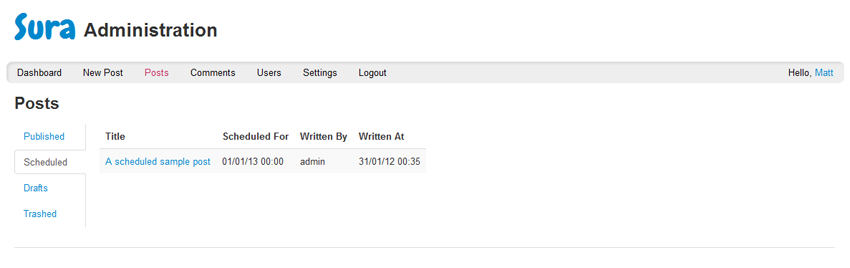
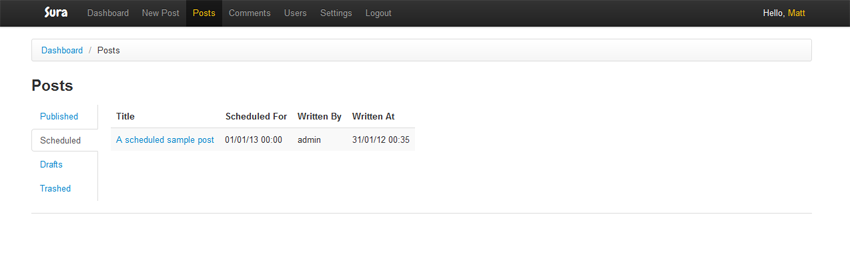
Altered background styling

diff --git a/src/Sura/Content/Stylesheets/bootstrap.min.css b/src/Sura/Content/Stylesheets/bootstrap.min.css
@@ -401,6 +401,9 @@ button.btn.small,input[type="submit"].btn.small{*padding-top:3px;*padding-bottom
 .fade{-webkit-transition:opacity 0.15s linear;-moz-transition:opacity 0.15s linear;-ms-transition:opacity 0.15s linear;-o-transition:opacity 0.15s linear;transition:opacity 0.15s linear;opacity:0;}.fade.in{opacity:1;}
 .collapse{-webkit-transition:height 0.35s ease;-moz-transition:height 0.35s ease;-ms-transition:height 0.35s ease;-o-transition:height 0.35s ease;transition:height 0.35s ease;position:relative;overflow:hidden;height:0;}.collapse.in{height:auto;}
 .hidden{display:none;visibility:hidden;}
+.breadcrumb{padding:7px 14px;margin:0 0 18px;background-color:#fbfbfb;background-image:-moz-linear-gradient(top, #ffffff, #f5f5f5);background-image:-ms-linear-gradient(top, #ffffff, #f5f5f5);background-image:-webkit-gradient(linear, 0 0, 0 100%, from(#ffffff), to(#f5f5f5));background-image:-webkit-linear-gradient(top, #ffffff, #f5f5f5);background-image:-o-linear-gradient(top, #ffffff, #f5f5f5);background-image:linear-gradient(top, #ffffff, #f5f5f5);background-repeat:repeat-x;filter:progid:DXImageTransform.Microsoft.gradient(startColorstr='#ffffff', endColorstr='#f5f5f5', GradientType=0);border:1px solid #ddd;-webkit-border-radius:3px;-moz-border-radius:3px;border-radius:3px;-webkit-box-shadow:inset 0 1px 0 #ffffff;-moz-box-shadow:inset 0 1px 0 #ffffff;box-shadow:inset 0 1px 0 #ffffff;}.breadcrumb li{display:inline;text-shadow:0 1px 0 #ffffff;}
+.breadcrumb .divider{padding:0 5px;color:#999999;}
+.breadcrumb .active a{color:#333333;}
 @media (max-width:480px){.nav-collapse{-webkit-transform:translate3d(0, 0, 0);} .page-header h1 small{display:block;line-height:18px;} input[class*="span"],select[class*="span"],textarea[class*="span"],.uneditable-input{display:block;width:100%;height:28px;-webkit-box-sizing:border-box;-moz-box-sizing:border-box;-ms-box-sizing:border-box;box-sizing:border-box;} .input-prepend input[class*="span"],.input-append input[class*="span"]{width:auto;} input[type="checkbox"],input[type="radio"]{border:1px solid #ccc;} .form-horizontal .control-group>label{float:none;width:auto;padding-top:0;text-align:left;} .form-horizontal .controls{margin-left:0;} .form-horizontal .control-list{padding-top:0;} .form-horizontal .form-actions{padding-left:10px;padding-right:10px;} .modal{position:absolute;top:10px;left:10px;right:10px;width:auto;margin:0;}.modal.fade.in{top:auto;} .modal-header .close{padding:10px;margin:-10px;} .carousel-caption{position:static;}}@media (max-width:768px){.container{width:auto;padding:0 20px;} .row-fluid{width:100%;} .row{margin-left:0;} .row>[class*="span"],.row-fluid>[class*="span"]{float:none;display:block;width:auto;margin:0;}}
 @media (min-width:768px) and (max-width:980px){.row{*zoom:1;}.row:before,.row:after{display:table;content:"";} .row:after{clear:both;} .row [class^="span"], .row [class*=" span"]{ margin-left: 0;} [class*="span"]{float:left;margin-left:20px;} .span1{width:42px;} .span2{width:104px;} .span3{width:166px;} .span4{width:228px;} .span5{width:290px;} .span6{width:352px;} .span7{width:414px;} .span8{width:476px;} .span9{width:538px;} .span10{width:600px;} .span11{width:662px;} .span12,.container{width:724px;} .offset1{margin-left:82px;} .offset2{margin-left:144px;} .offset3{margin-left:206px;} .offset4{margin-left:268px;} .offset5{margin-left:330px;} .offset6{margin-left:392px;} .offset7{margin-left:454px;} .offset8{margin-left:516px;} .offset9{margin-left:578px;} .offset10{margin-left:640px;} .offset11{margin-left:702px;} .row-fluid{width:100%;*zoom:1;}.row-fluid:before,.row-fluid:after{display:table;content:"";} .row-fluid:after{clear:both;} .row-fluid>[class*="span"]{float:left;margin-left:2.762430939%;} .row-fluid>[class*="span"]:first-child{margin-left:0;} .row-fluid .span1{width:5.801104972%;} .row-fluid .span2{width:14.364640883%;} .row-fluid .span3{width:22.928176794%;} .row-fluid .span4{width:31.491712705%;} .row-fluid .span5{width:40.055248616%;} .row-fluid .span6{width:48.618784527%;} .row-fluid .span7{width:57.182320438000005%;} .row-fluid .span8{width:65.74585634900001%;} .row-fluid .span9{width:74.30939226%;} .row-fluid .span10{width:82.87292817100001%;} .row-fluid .span11{width:91.436464082%;} .row-fluid .span12{width:99.999999993%;} input.span1,textarea.span1,.uneditable-input.span1{width:32px;} input.span2,textarea.span2,.uneditable-input.span2{width:94px;} input.span3,textarea.span3,.uneditable-input.span3{width:156px;} input.span4,textarea.span4,.uneditable-input.span4{width:218px;} input.span5,textarea.span5,.uneditable-input.span5{width:280px;} input.span6,textarea.span6,.uneditable-input.span6{width:342px;} input.span7,textarea.span7,.uneditable-input.span7{width:404px;} input.span8,textarea.span8,.uneditable-input.span8{width:466px;} input.span9,textarea.span9,.uneditable-input.span9{width:528px;} input.span10,textarea.span10,.uneditable-input.span10{width:590px;} input.span11,textarea.span11,.uneditable-input.span11{width:652px;} input.span12,textarea.span12,.uneditable-input.span12{width:714px;}}@media (max-width:980px){body{padding-top:0;} .navbar-fixed-top{position:static;margin-bottom:18px;} .navbar-fixed-top .navbar-inner{padding:5px;} .navbar .container{width:auto;padding:0;} .navbar .brand{padding-left:10px;padding-right:10px;margin:0 0 0 -5px;} .navbar .nav-collapse{clear:left;} .navbar .nav{float:none;margin:0 0 9px;} .navbar .nav>li{float:none;} .navbar .nav>li>a{margin-bottom:2px;} .navbar .nav>.divider-vertical{display:none;} .navbar .nav>li>a,.navbar .dropdown-menu a{padding:6px 15px;font-weight:bold;color:#999999;-webkit-border-radius:3px;-moz-border-radius:3px;border-radius:3px;} .navbar .dropdown-menu li+li a{margin-bottom:2px;} .navbar .nav>li>a:hover,.navbar .dropdown-menu a:hover{background-color:#222222;} .navbar .dropdown-menu{position:static;top:auto;left:auto;float:none;display:block;max-width:none;margin:0 15px;padding:0;background-color:transparent;border:none;-webkit-border-radius:0;-moz-border-radius:0;border-radius:0;-webkit-box-shadow:none;-moz-box-shadow:none;box-shadow:none;} .navbar .dropdown-menu:before,.navbar .dropdown-menu:after{display:none;} .navbar .dropdown-menu .divider{display:none;} .navbar-form,.navbar-search{float:none;padding:9px 15px;margin:9px 0;border-top:1px solid #222222;border-bottom:1px solid #222222;-webkit-box-shadow:inset 0 1px 0 rgba(255, 255, 255, 0.1),0 1px 0 rgba(255, 255, 255, 0.1);-moz-box-shadow:inset 0 1px 0 rgba(255, 255, 255, 0.1),0 1px 0 rgba(255, 255, 255, 0.1);box-shadow:inset 0 1px 0 rgba(255, 255, 255, 0.1),0 1px 0 rgba(255, 255, 255, 0.1);} .navbar .nav.pull-right{float:none;margin-left:0;} .navbar-static .navbar-inner{padding-left:10px;padding-right:10px;} .btn-navbar{display:block;} .nav-collapse{overflow:hidden;height:0;}}
 @media (min-width:980px){.nav-collapse.collapse{height:auto !important;}}

diff --git a/src/Sura/Content/Stylesheets/Sura/sura-admin.css b/src/Sura/Content/Stylesheets/Sura/sura-admin.css
@@ -1,32 +1,32 @@
 ::-moz-selection, ::selection { background: #049cdb; color: #fff;	}
 
-.row
-{
-    margin-left: 1%;
-    width: 98%;
-}
-
-.container > header p
-{
-    font-size: 2em;
-    font-weight: bold;
-    height: 80px;
-    line-height: 90px;
-    vertical-align: top;
-}
-
-.container > header p span 
+header .container a.brand
 {
     font-family: 'Chewy', "Helvetica Neue", Helvetica, Arial, sans-serif;
-    font-size: 1.8em;
-    margin-right: 0.1em;
-    line-height: 83px;
+    margin-left: 0;
 }
 
-.container > header a:hover, .container > nav a:hover
+header .container a.brand:hover, header .container .nav-user a:hover
 {
-    background: 0;
-    text-decoration: none;
+    color: #f89406;
+}
+
+header .container .nav-user
+{
+    color: #fff;
+}
+
+.navbar ul.nav li.active a
+{
+    color: #ffc40d;
+}
+
+header .container .nav-user a
+{
+    color: #ffc40d;
+    display: inline-block;
+    margin: 0;
+    padding-left: 0;
 }
 
 .container > footer
@@ -35,59 +35,8 @@
     margin-bottom: 1.65em;
 }
 
-.container > nav
-{
-    background: #eee;
-    border-radius: 8px;
-    box-shadow: inset 3px 3px 3px #ddd;
-    color: #000;
-}
-
-.container > nav.row
-{
-    margin-left: 0%;
-    width: 100%;
-}
-
-.container > nav ul
-{
-    margin-bottom: 0;
-}
-
-.container > nav ul li
-{
-    display: inline;
-    float: left;
-    padding: 0 15px;
-}
-
-.container > nav li a
-{
-    color: #000;
-}
-
-.container > nav li a:hover, .container > nav li.current-page a
-{
-    color: #c3325f;
-}
-
-.container > nav li, .container > nav span
-{
-    height: 30px;
-    line-height: 30px;
-}
-
-.container > nav span
-{ 
-    display: block;
-    float: right;
-    padding-right: 15px;
-    text-align: right;
-}
-
 .container > div.row
 {
-    padding: 10px 0;
     position: relative;
 }
 
@@ -103,7 +52,6 @@
     -moz-box-shadow: 0 2px 5px rgba(0,0,0,0.25);
     margin: 0 0 30px 0;
     padding: 20px 1% 2px 1%;
-    width: 96%;
 }
 
 fieldset.panel
@@ -131,15 +79,10 @@ fieldset.panel legend
     text-align: right;
 }
 
-.alert 
-{
-    width: 93.8%;
-}
-
 .nav-pills 
 {
     position: absolute;
-    top: 10px;
+    top: 50px;
     right: 0;	
 }
 
@@ -155,11 +98,11 @@ input.mins
     text-align: right;
     width: 30px;	
 }
+
 div.validation-summary-errors ul 
 {
     list-style-type: none;
     margin: 0;
-    width: 98%;
 }
 
 div.validation-summary-errors li{padding:8px 35px 8px 14px;margin-bottom:18px;text-shadow:0 1px 0 rgba(255, 255, 255, 0.5);background-color:#f2dede;border-color:#eed3d7;color:#b94a48;-webkit-border-radius:4px;-moz-border-radius:4px;border-radius:4px;}

diff --git a/src/Sura/Content/Javascripts/Sura/sura-admin.js b/src/Sura/Content/Javascripts/Sura/sura-admin.js
@@ -1,6 +1,3 @@
-/*! http://mths.be/placeholder v1.8.7 by @mathias */
-(function(o,m,r){var t="placeholder" in m.createElement("input"),q="placeholder" in m.createElement("textarea"),l=r.fn,k;if(t&&q){k=l.placeholder=function(){return this};k.input=k.textarea=true}else{k=l.placeholder=function(){return this.filter((t?"textarea":":input")+"[placeholder]").not(".placeholder").bind("focus.placeholder",s).bind("blur.placeholder",p).trigger("blur.placeholder").end()};k.input=t;k.textarea=q;r(function(){r(m).delegate("form","submit.placeholder",function(){var a=r(".placeholder",this).each(s);setTimeout(function(){a.each(p)},10)})});r(o).bind("unload.placeholder",function(){r(".placeholder").val("")})}function n(b){var c={},a=/^jQuery\d+$/;r.each(b.attributes,function(d,e){if(e.specified&&!a.test(e.name)){c[e.name]=e.value}});return c}function s(){var a=r(this);if(a.val()===a.attr("placeholder")&&a.hasClass("placeholder")){if(a.data("placeholder-password")){a.hide().next().show().focus().attr("id",a.removeAttr("id").data("placeholder-id"))}else{a.val("").removeClass("placeholder")}}}function p(){var d,e=r(this),c=e,a=this.id;if(e.val()===""){if(e.is(":password")){if(!e.data("placeholder-textinput")){try{d=e.clone().attr({type:"text"})}catch(b){d=r("<input>").attr(r.extend(n(this),{type:"text"}))}d.removeAttr("name").data("placeholder-password",true).data("placeholder-id",a).bind("focus.placeholder",s);e.data("placeholder-textinput",d).data("placeholder-id",a).before(d)}e=e.removeAttr("id").hide().prev().attr("id",a).show()}e.addClass("placeholder").val(e.attr("placeholder"))}else{e.removeClass("placeholder")}}}(this,document,jQuery));
-
 $(document).ready(function () {
     var page = window.location.pathname.split('admin/')[1];
     var sub = page.indexOf('/');
@@ -8,8 +5,7 @@ $(document).ready(function () {
         page = page.substr(0, sub) + '-' + page.substr(sub + 1);
     }
 
-    $('li.nav-' + page).addClass('current-page');
-    $('input, textarea').placeholder();
+    $('li.nav-' + page).addClass('active');
 });
 
 function redirect(url) {

diff --git a/src/Sura/Content/Stylesheets/sura.css b/src/Sura/Content/Stylesheets/sura.css
@@ -197,12 +197,13 @@ textarea.body
     width: 98%;
 }
 
-div.validation-summary-errors li
+div.validation-summary-errors ul 
 {
-    padding: 6px 7px; font-weight: bold; font-size: 13px; background: #eee; border: 1px solid rgba(0,0,0,0.1); margin-bottom: 12px; border-radius: 3px; -webkit-border-radius: 3px; -moz-border-radius: 3px; text-shadow: 0 1px rgba(255,255,255,0.9); 
-	background-color: #c00000; color: #fff; text-shadow: 0 -1px rgba(0,0,0,0.3);
+    list-style-type: none;
+    margin: 0;
 }
 
+div.validation-summary-errors li{padding:8px 35px 8px 14px;margin-bottom:18px;text-shadow:0 1px 0 rgba(255, 255, 255, 0.5);background-color:#f2dede;border-color:#eed3d7;color:#b94a48;-webkit-border-radius:4px;-moz-border-radius:4px;border-radius:4px;}
 
 .help-inline.required 
 {

diff --git a/src/Sura/Areas/Admin/AdminAreaRegistration.cs b/src/Sura/Areas/Admin/AdminAreaRegistration.cs
@@ -32,7 +32,7 @@ namespace Sura.Areas.Admin
             context.MapRoute("Admin_Posts_Delete", "admin/posts/{slug}/delete", new { controller = "Posts", action = "Delete" });
 
             // comments
-            context.MapRoute("Admin_Comments", "admin/comments", new { controller = "NumberOfComments", action = "List" });
+            context.MapRoute("Admin_Comments", "admin/comments", new { controller = "Comments", action = "List" });
 
             // settings
             context.MapRoute("Admin_Settings", "admin/settings", new { controller = "Settings", action = "Edit" });
